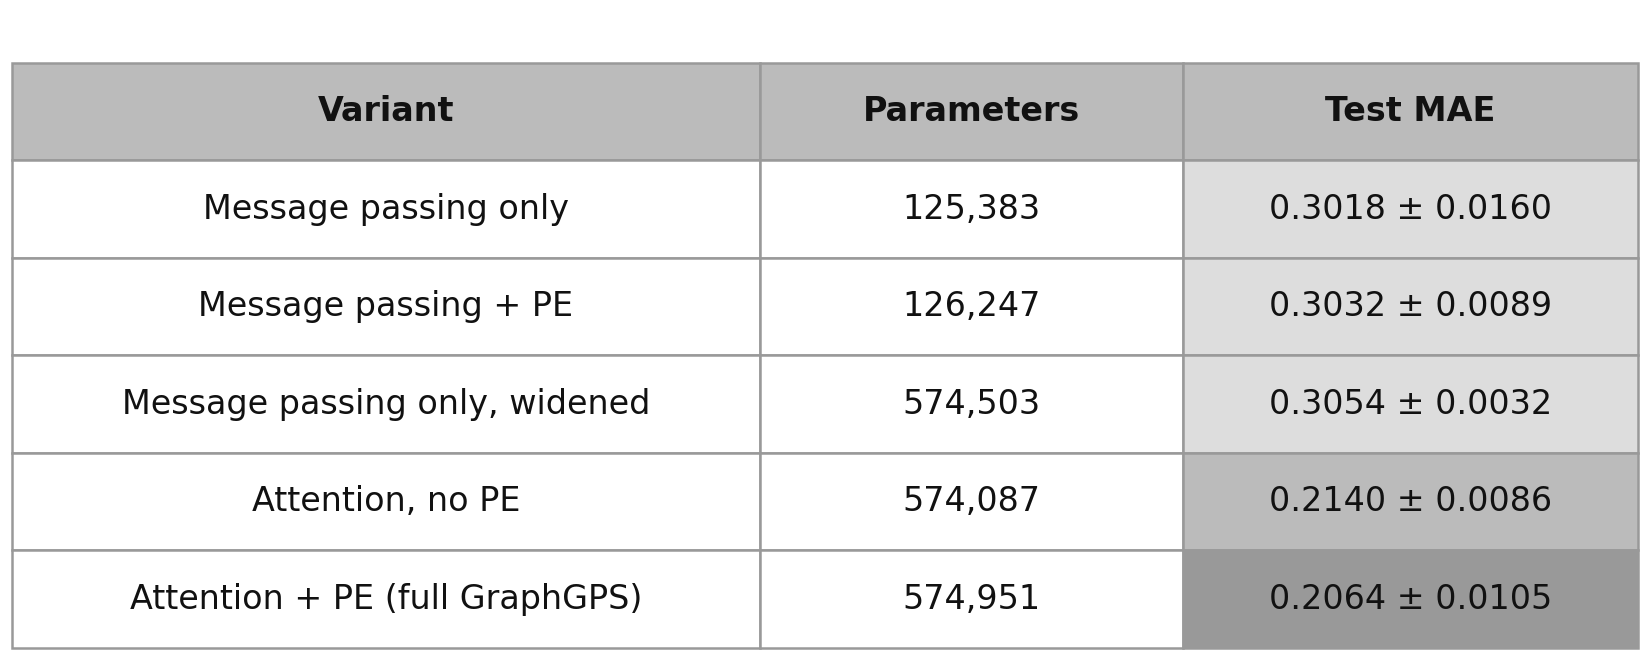
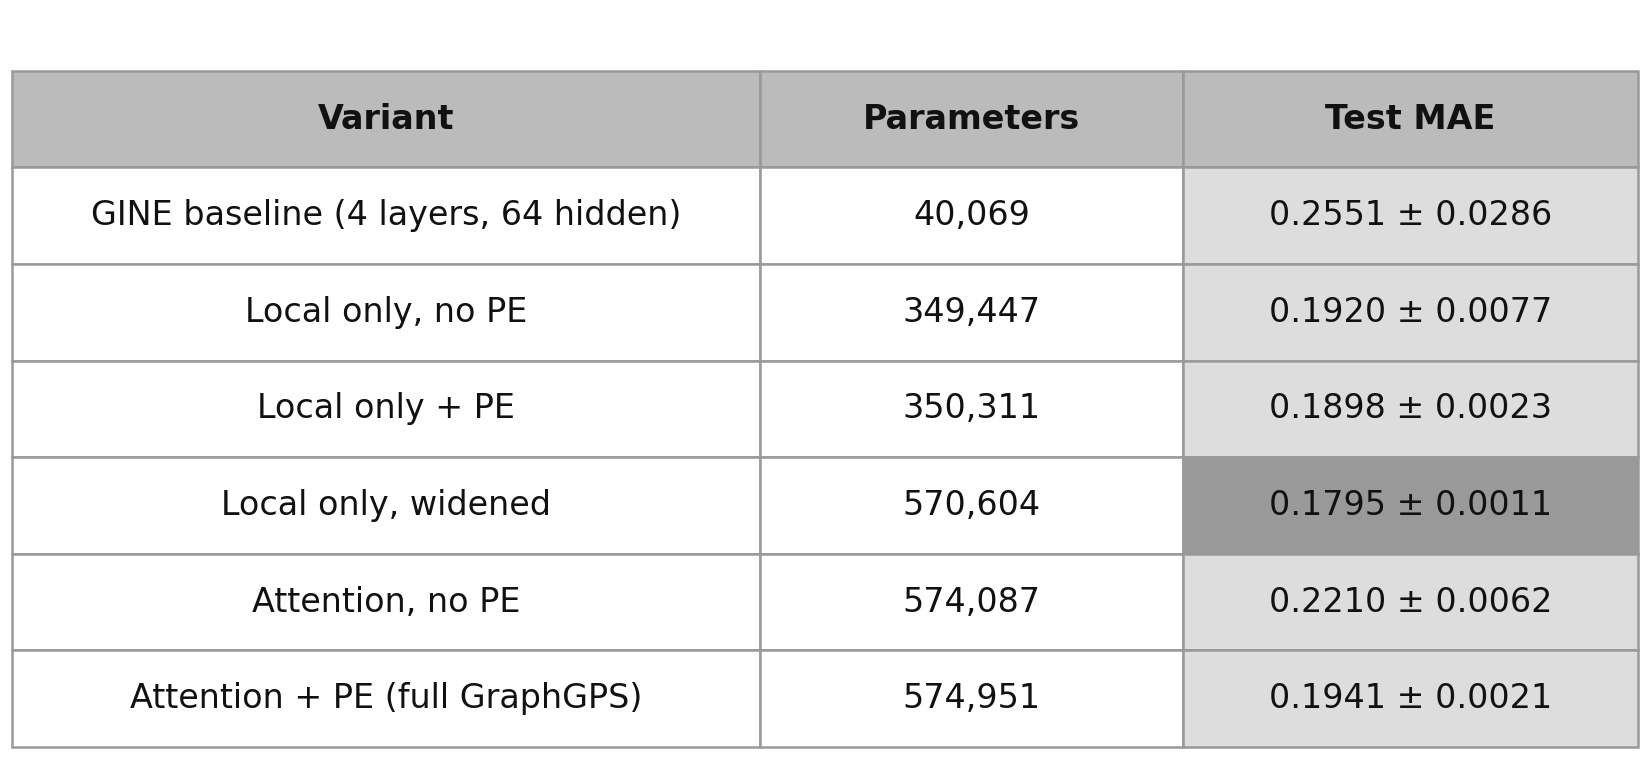
Replace Chapter 10's ablation with the six-variant study
The old figure 10.4 compared five variants whose MAEs sat between 0.2064
and 0.3054, close enough that the figure did not separate the GraphGPS
block from global attention. The notebook now runs six variants over
three seeds, and the gap is legible: removing attention costs nothing on
ZINC-subset, while widening the local block reaches 0.1795.

All twelve values are traceable to the notebook's cell outputs. The
README repeats them as a table and says where each number comes from,
including why the GINE baseline reads 0.2551 there and 0.2416 in the
verified single run.

Also fixes the notebook link, which still pointed at figures/, and the
runtime, which is 34 minutes on the machine run.py was verified on.

diff --git a/Chapter10/figures/generate_figures.py b/Chapter10/figures/generate_figures.py
@@ -233,22 +233,24 @@ save(fig, "fig10_3_mae_by_size.png")
 print("Figure 10.4 …")
 
 rows = [
-    ["Message passing only",              "125,383", "0.3018 ± 0.0160"],
-    ["Message passing + PE",              "126,247", "0.3032 ± 0.0089"],
-    ["Message passing only, widened",     "574,503", "0.3054 ± 0.0032"],
-    ["Attention, no PE",                  "574,087", "0.2140 ± 0.0086"],
-    ["Attention + PE (full GraphGPS)",    "574,951", "0.2064 ± 0.0105"],
+    ["GINE baseline (4 layers, 64 hidden)", "40,069",  "0.2551 ± 0.0286"],
+    ["Local only, no PE",                   "349,447", "0.1920 ± 0.0077"],
+    ["Local only + PE",                     "350,311", "0.1898 ± 0.0023"],
+    ["Local only, widened",                 "570,604", "0.1795 ± 0.0011"],
+    ["Attention, no PE",                    "574,087", "0.2210 ± 0.0062"],
+    ["Attention + PE (full GraphGPS)",      "574,951", "0.1941 ± 0.0021"],
 ]
 cols = ["Variant", "Parameters", "Test MAE"]
 cclr = [
     ['white', 'white', G6],
     ['white', 'white', G6],
     ['white', 'white', G6],
-    ['white', 'white', G5],
     ['white', 'white', G4],
+    ['white', 'white', G6],
+    ['white', 'white', G6],
 ]
 
-fig, ax = figure(aspect=0.40)
+fig, ax = figure(aspect=0.46)
 ax.axis('off')
 tbl = ax.table(cellText=rows, colLabels=cols, cellLoc='center',
                colWidths=[0.46, 0.26, 0.28], cellColours=cclr,

diff --git a/Chapter10/README.md b/Chapter10/README.md
@@ -1,8 +1,9 @@
 # Chapter 10 – Graph Transformers: Attention Beyond Local Neighborhoods
 
 A GINE baseline and a GraphGPS model on ZINC-subset, trained for 150 epochs
-each, so the chapter can ask what global attention and Laplacian positional
-encodings actually buy on molecular graphs.
+each, followed by an ablation that asks what global attention, Laplacian
+positional encodings, and the rest of the GraphGPS block actually contribute
+on molecular graphs.
 
 ## Setup
 
@@ -22,9 +23,9 @@ python run.py                        # trains GINE, then GraphGPS
 python figures/generate_figures.py   # regenerates figures
 ```
 
-`run.py` took about 26 minutes on the machine this was verified on, CPU only —
-the two models are trained one after the other, 150 epochs each. A GPU is not
-required but shortens this considerably.
+`run.py` took about 34 minutes on the machine this was verified on, CPU only:
+about 2.7 seconds per epoch for GINE and 10.8 for GraphGPS, 150 epochs each.
+A GPU is not required but shortens this considerably.
 
 ## What to expect
 
@@ -35,34 +36,49 @@ Test MAE on ZINC-subset, from the verified run:
 | GINE baseline | 0.2416 |
 | GraphGPS | 0.2025 |
 
-That is a gain of about 16%, not the order-of-magnitude difference the
-GraphGPS paper reports on other datasets — and the chapter treats that as the
-interesting result rather than an embarrassment. ZINC molecules average 23
-atoms, so six rounds of message passing already reach most of the graph, and
-there is little left for global attention to add. Exact numbers vary with seed
-and with the PyTorch/PyG version.
+That is a reduction of about 16%. Exact numbers vary with seed and with the
+PyTorch/PyG version; the run above was produced with PyTorch 2.5.1,
+PyTorch Geometric 2.8.0, and pandas 2.3.3.
 
-The stratified breakdown by molecule size, Figure 10.3, is where the two models
-differ most. The error is not monotonic in molecule size: both models do best
-on the middle bins, 21-25 atoms, and worse at both ends.
+The stratified breakdown by molecule size, Figure 10.3, shows that the error is
+not monotonic in molecule size: both models do best on the middle bins,
+21-25 atoms, and worse at both ends.
 
 ## The ablation behind Figure 10.4
 
-GINE and GraphGPS differ in two ways at once, positional encodings and global
-attention, so the headline comparison cannot say which one matters.
-[ablation.ipynb](ablation.ipynb) separates them with a 2x2
-design at matched depth and width over several seeds, and produces
-`fig10_4_ablation.png`. It is written for Colab, since it trains four variants.
+GINE and GraphGPS differ in several ways at once: global attention, positional
+encodings, and the rest of the GraphGPS block (residual connections,
+normalization, a feed-forward layer, dropout, more layers and channels).
+[ablation.ipynb](ablation.ipynb) separates them with six
+variants over three seeds, and its results feed `fig10_4_ablation.png`:
+
+| variant | parameters | test MAE (3 seeds) |
+|---|---|---|
+| GINE baseline (4 layers, 64 hidden) | 40,069 | 0.2551 ± 0.0286 |
+| local only, no PE | 349,447 | 0.1920 ± 0.0077 |
+| local only + PE | 350,311 | 0.1898 ± 0.0023 |
+| local only, widened | 570,604 | 0.1795 ± 0.0011 |
+| attention, no PE | 574,087 | 0.2210 ± 0.0062 |
+| attention + PE (full GraphGPS) | 574,951 | 0.1941 ± 0.0021 |
+
+The first row is the same GINE baseline as above, re-run over three seeds on
+different hardware, which is why it reads 0.2551 rather than 0.2416; the single
+run falls well inside the spread. The "local only" variants are the GraphGPS
+block with its attention branch removed. On ZINC-subset, the gain over GINE
+comes from the block design rather than from global attention, consistently
+with the ablation in the GraphGPS paper. The notebook is written for Colab and
+was run on an A100 GPU with PyTorch 2.11 and PyTorch Geometric 2.8.1; the full
+grid takes about one hour and forty minutes there.
 
 ## Figures
 
 4 figures, listed in [figures/INDEX.md](figures/INDEX.md). Regenerate them with
 the command above; they are drawn in grayscale, as printed.
 
-The stratified bars in Figure 10.3 are hard-coded near the top of the Figure
-10.3 block in `figures/generate_figures.py`. They match the verified run to four
-decimals; if you re-run the chapter, replace the `gine` and `gps` arrays with
-the stratified means it prints.
+The stratified bars in Figure 10.3 and the ablation rows in Figure 10.4 are
+hard-coded in `figures/generate_figures.py`. They match the verified runs to
+four decimals; if you re-run the chapter or the ablation, replace them with the
+values printed by `run.py` and `ablation.ipynb`.
 
 ## Requirements
 
